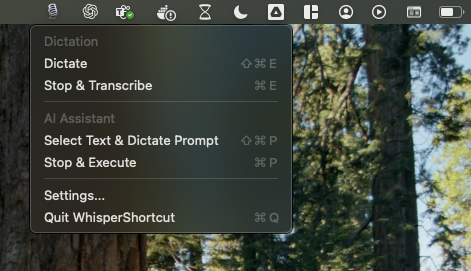
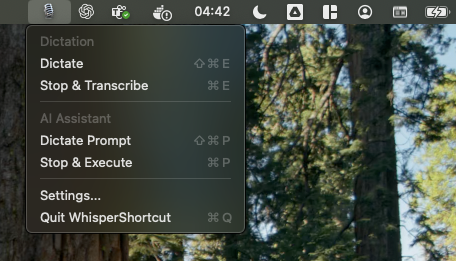
Improves Prompt Mode usability and clarity
Enhances the user experience of Prompt Mode by clarifying its usage and addressing potential issues with text capture.

- Renames "Select Text & Dictate Prompt" to "Dictate Prompt" for better clarity.
- Adds instructions and a troubleshooting tip to the settings view, guiding users on how to properly use the prompt mode, including manual copy (Cmd+C) as a fallback.
- Modifies settings descriptions to be more specific about clipboard usage.
- Adds a print statement to indicate when Cmd+C is automatically triggered.

diff --git a/WhisperShortcut/SettingsView.swift b/WhisperShortcut/SettingsView.swift
@@ -288,7 +288,7 @@ struct SettingsView: View {
           .font(.title3)
           .fontWeight(.semibold)
 
-        Text("Audio → Text Conversion")
+        Text("Dictate → Text Conversion")
           .font(.callout)
           .foregroundColor(.secondary)
 
@@ -327,7 +327,7 @@ struct SettingsView: View {
           .font(.title3)
           .fontWeight(.semibold)
 
-        Text("Select Text + Audio → AI Assistant Response")
+        Text("Dictate Prompt → AI Assistant Response (uses clipboard as context)")
           .font(.callout)
           .foregroundColor(.secondary)
 
@@ -377,6 +377,36 @@ struct SettingsView: View {
         .fixedSize(horizontal: false, vertical: true)
       }
       .textSelection(.enabled)
+
+      // Prompt Mode Usage Instructions
+      VStack(alignment: .leading, spacing: 8) {
+        Text("How to use Prompt Mode:")
+          .font(.callout)
+          .fontWeight(.semibold)
+          .foregroundColor(.secondary)
+
+        VStack(alignment: .leading, spacing: 4) {
+          Text("1. Optional: Copy any text to clipboard (⌘C)")
+          Text("2. Dictate your prompt (e.g., ⌘⌥P)")
+          Text("3. AI receives both your voice and clipboard text")
+        }
+        .font(.callout)
+        .foregroundColor(.secondary)
+
+        Text(
+          "💡 Tip: When installing the app directly from the GitHub repository (https://github.com/mgsgde/whisper-shortcut), any text you select will be automatically copied to the clipboard for use in Prompt Mode."
+        )
+        .font(.callout)
+        .foregroundColor(.orange)
+        .padding(.top, 4)
+      }
+      .padding(12)
+      .background(Color(.controlBackgroundColor).opacity(0.5))
+      .cornerRadius(Constants.cornerRadius)
+      .overlay(
+        RoundedRectangle(cornerRadius: Constants.cornerRadius)
+          .stroke(Color(.separatorColor), lineWidth: 1)
+      )
     }
   }
 
@@ -433,6 +463,13 @@ struct SettingsView: View {
           .fontWeight(.semibold)
 
         VStack(alignment: .leading, spacing: 8) {
+          Text(
+            "Usage: This prompt defines how the AI assistant behaves when you use Prompt Mode. The AI receives both your spoken command AND any selected text from your clipboard as context."
+          )
+          .font(.callout)
+          .foregroundColor(.secondary)
+          .padding(.bottom, 4)
+
           Text("System Instructions for AI Assistant:")
             .font(.callout)
             .fontWeight(.semibold)

diff --git a/WhisperShortcut/MenuBarController.swift b/WhisperShortcut/MenuBarController.swift
@@ -121,7 +121,7 @@ class MenuBarController: NSObject {
 
     // Start prompting item with configurable shortcut
     let startPromptItem = NSMenuItem(
-      title: "Select Text & Dictate Prompt", action: #selector(startPromptingFromMenu),
+      title: "Dictate Prompt", action: #selector(startPromptingFromMenu),
       keyEquivalent: "")
     startPromptItem.keyEquivalentModifierMask = []
     startPromptItem.target = self
@@ -268,12 +268,12 @@ class MenuBarController: NSObject {
         // During recording/prompting: hide disabled items
         startPromptingItem.isHidden = !isEnabled
         if !startPromptingItem.isHidden {
-          startPromptingItem.title = "Select Text & Dictate Prompt"
+          startPromptingItem.title = "Dictate Prompt"
         }
       } else {
         // In ready state: show all items
         startPromptingItem.isHidden = false
-        startPromptingItem.title = "Select Text & Dictate Prompt"
+        startPromptingItem.title = "Dictate Prompt"
       }
     }
 
@@ -591,6 +591,10 @@ extension MenuBarController: ShortcutDelegate {
     // Post the events
     cmdDown?.post(tap: .cghidEventTap)
     cmdUp?.post(tap: .cghidEventTap)
+
+    print("🤖 PROMPT-MODE: Attempted to simulate Cmd+C for text capture")
+    print(
+      "   Note: If this doesn't work (especially in App Store version), manually press Cmd+C first")
   }
 
   func stopPrompting() {

diff --git a/README.md b/README.md
@@ -18,6 +18,8 @@
 3. **Speak Your Prompt** - Ask GPT-5 to analyze, explain, or work with the selected text
 4. **Get Smart Response** - GPT-5 receives both your spoken prompt AND the selected text as context
 
+**💡 Pro Tip:** If automatic text capture doesn't work (especially in App Store version), manually press **⌘C** to copy your selected text before using the prompt shortcut.
+
 ## Get WhisperShortcut
 
 ### Free Installation
